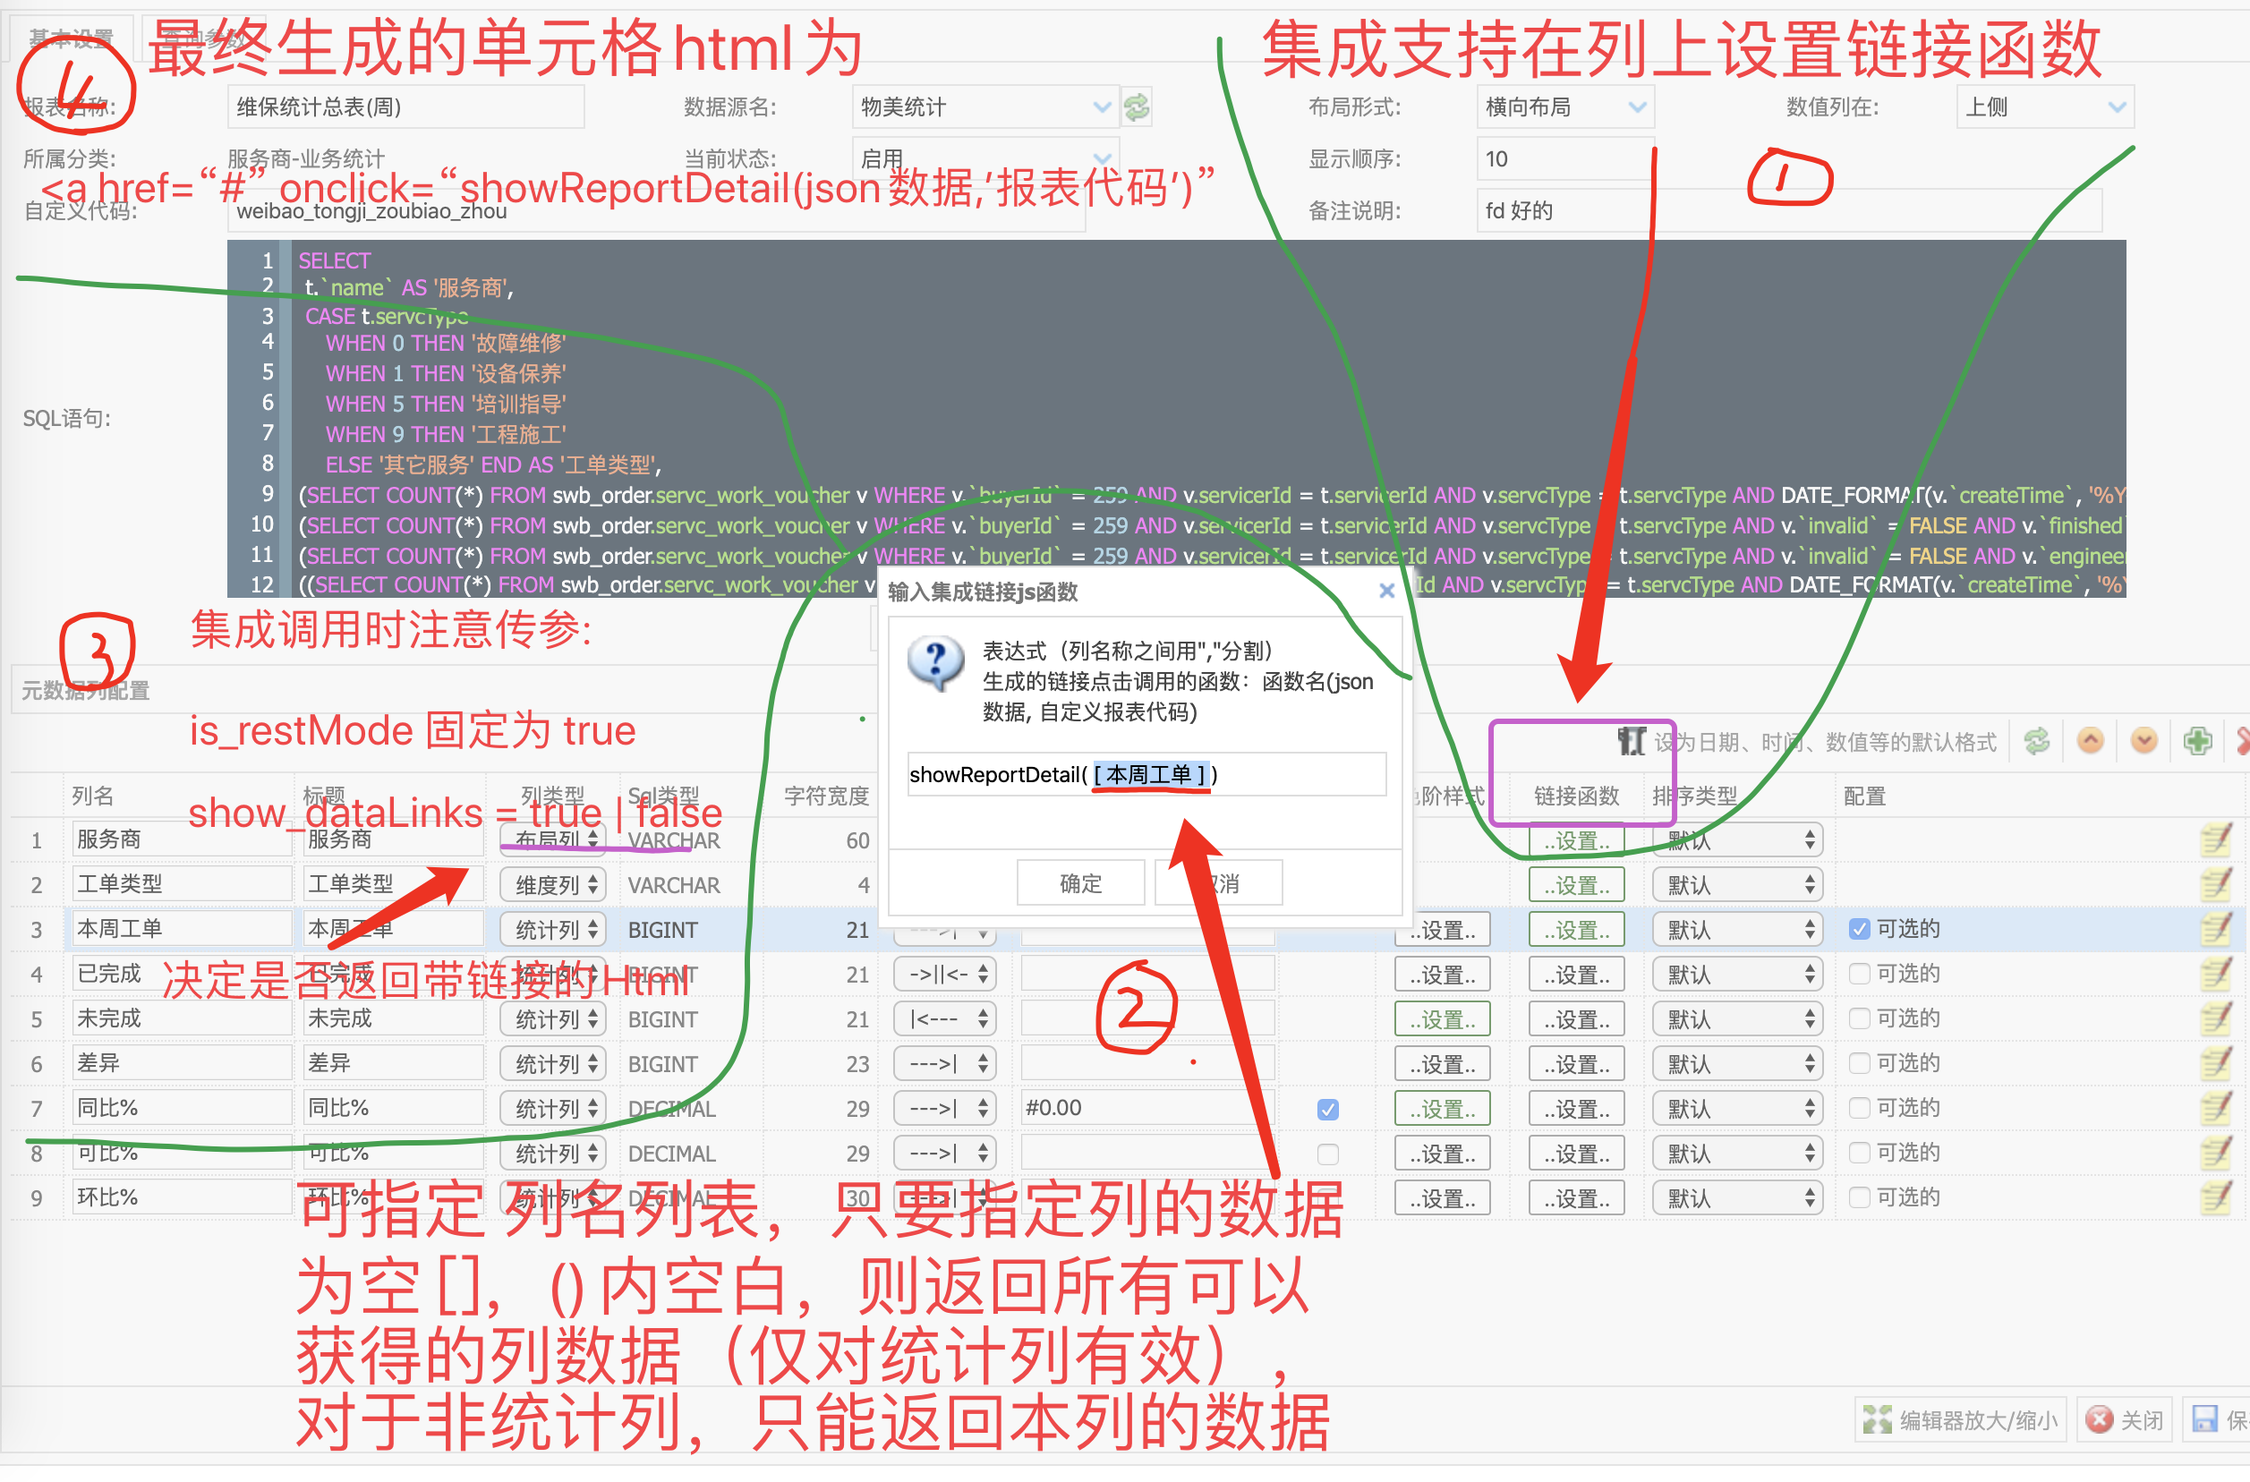
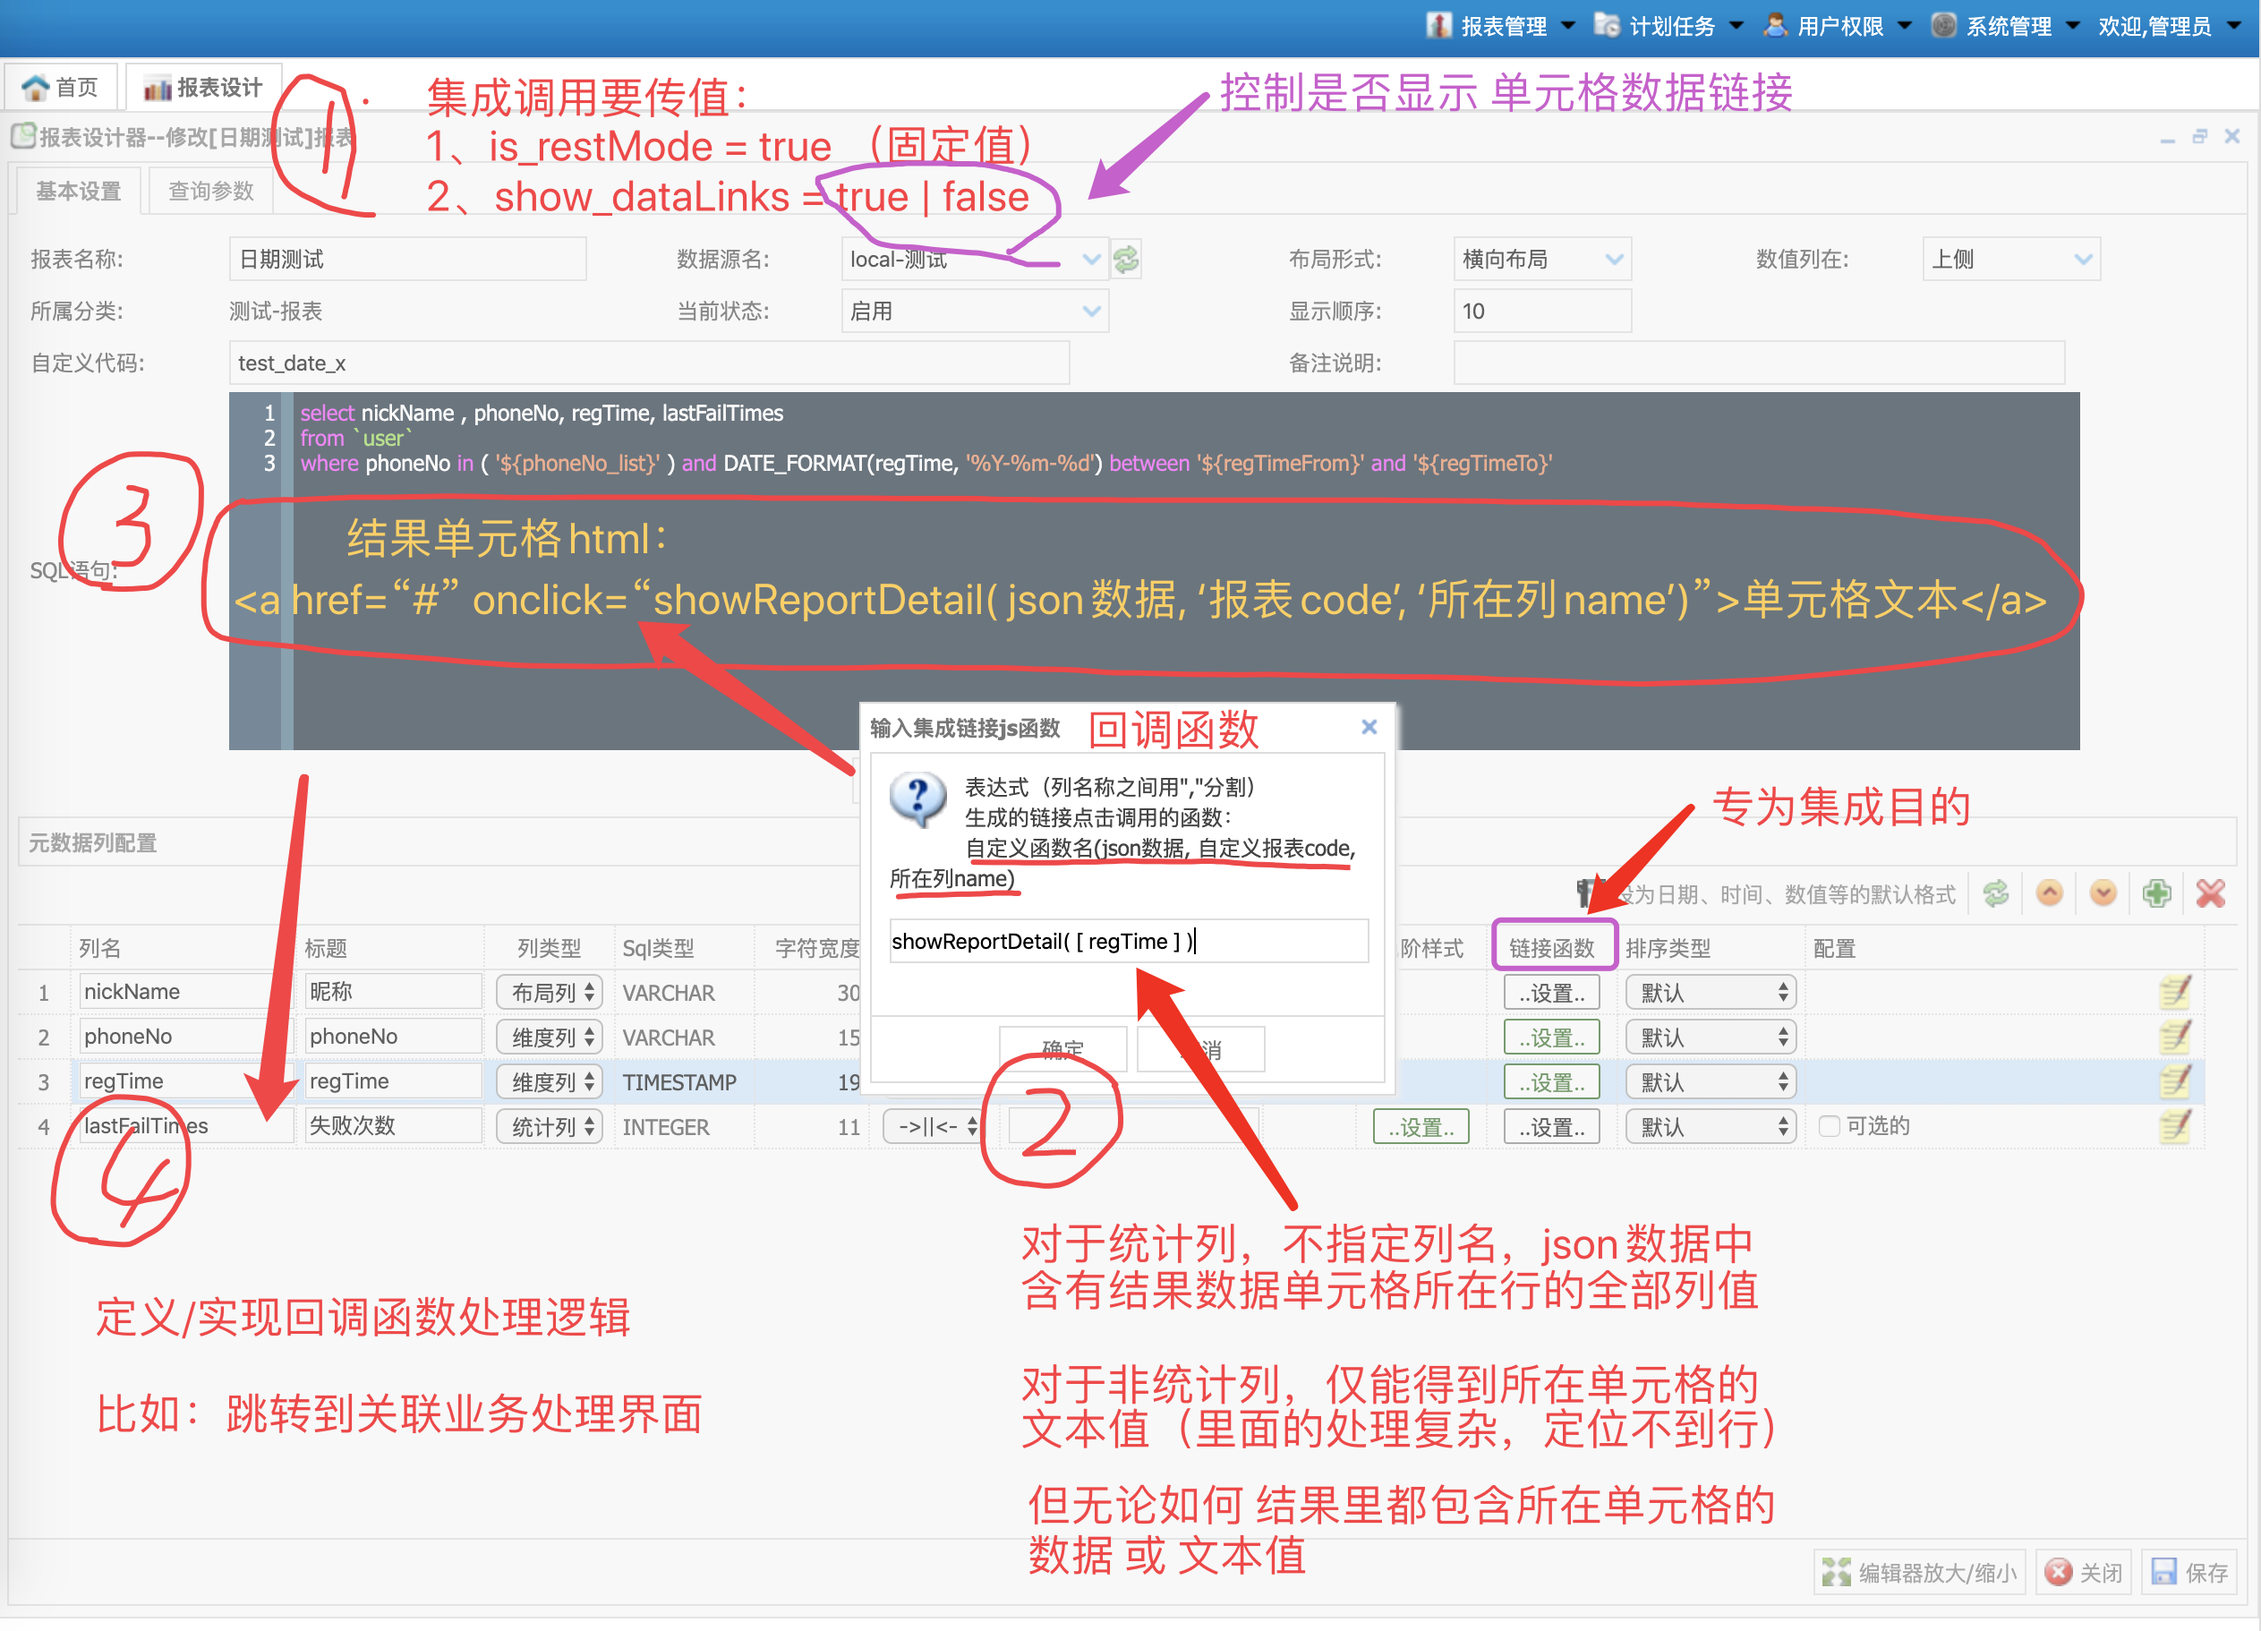
EasyReport 自定义链接回调函数增加列名参数

diff --git a/easyreport-web/src/main/resources/static/js/report/designer.js b/easyreport-web/src/main/resources/static/js/report/designer.js
@@ -1705,18 +1705,18 @@ var DesignerMVC = {
             	linkFuncExpr = 'showReportDetail( [ ' + row.name + ' ] )';
             }
             //
-            $.messager.prompt('输入集成链接js函数', '表达式（列名称之间用","分割）<br/>生成的链接点击调用的函数：函数名(json数据, 自定义报表代码)', function(val){
+            $.messager.prompt('输入集成链接js函数', '表达式（列名称之间用","分割）<br/>生成的链接点击调用的函数：<br/>自定义函数名(json数据, 自定义报表code, 所在列name)', function(val){
             	val = $.trim(val);
             	row.linkFuncExpr = val;
-            	//
-            	$(".messager-window .messager-input").val('');//fix
+            	//fix
+            	$(".messager-window .messager-input").val('');
             	//
             	var rows = $("#report-meta-column-grid").datagrid('getRows');
                 $("#report-meta-column-grid").datagrid('loadData', rows);
                 $("#report-meta-column-grid").datagrid('selectRow', index);
             });
-            //
-            $(".messager-window .messager-input").val(linkFuncExpr);//初始值fix
+            //初始值fix
+            $(".messager-window .messager-input").val(linkFuncExpr);
         },
         setMetaColumnFormat:function(){
         	var row = $("#report-meta-column-grid").datagrid('getSelected');

diff --git a/easyreport-web/src/main/resources/static/js/report/themes/content/table.js b/easyreport-web/src/main/resources/static/js/report/themes/content/table.js
@@ -391,7 +391,7 @@ var TableReportMVC = {
 };
 
 //仅供调试链接列使用
-function showReportDetail(dataMap, reportCode) {
-    console.log("-" + reportCode + "-");
+function showReportDetail(dataMap, reportCode, colName) {
+    console.log(">" + reportCode + " : " + colName);
     console.log(dataMap);
 }

diff --git a/easyreport-engine/src/main/java/com/easytoolsoft/easyreport/engine/LinkFunc.java b/easyreport-engine/src/main/java/com/easytoolsoft/easyreport/engine/LinkFunc.java
@@ -83,7 +83,7 @@ public class LinkFunc {
 				retFunc.colNames = colNames.toArray(new String[0]);
 			}
 		}
-		retFunc.tplStr = retFunc.funcName + "(%s, \"%s\")";
+		retFunc.tplStr = retFunc.funcName + "(%s, \"%s\", \"%s\")";
 		// System.out.println(retFunc.tplStr);
 		return retFunc;
 	}
@@ -103,38 +103,51 @@ public class LinkFunc {
 		return retStr;
 	}
 
-	public static String toLinkHtml(String valueText, LinkFunc linkFunc, String reportCode, String dataName, Object dataValue) {
+	public static String toLinkHtml(String valText, LinkFunc linkFunc, String reportCode, String colName) {
+		if (colName == null) {
+			colName = "";
+		}
+		//
 		Map<String, Object> dataMap = new HashMap<String, Object>();
-		dataMap.put(dataName, dataValue);
-		return toLinkHtml(valueText, linkFunc, reportCode, dataMap);
+		dataMap.put(colName, valText);
+		return toLinkHtml(valText, linkFunc, reportCode, colName, dataMap);
 	}
 
-	public static String toLinkHtml(String valueText, LinkFunc linkFunc, String reportCode, Map<String, Object> dataMap) {
+	public static String toLinkHtml(String valText, LinkFunc linkFunc, String reportCode, String colName, Map<String, Object> dataMap) {
 		if (linkFunc == null) {
-			return valueText;
+			return valText;
 		}
+		//
+		if (colName == null) {
+			colName = "";
+		}
+		//
 		String dataMapJson = null;
 		if (linkFunc.useAllCols) {
+			if (!dataMap.containsKey(colName)) {
+				// 确保含有当前列的值
+				dataMap.put(colName, valText);
+			}
 			dataMapJson = JSON.toJSONString(dataMap);
 		} else {
 			Map<String, Object> tempMap = new HashMap<>();
-			for (String colName : linkFunc.colNames) {
-				if (dataMap.containsKey(colName)) {
-					tempMap.put(colName, dataMap.get(colName));
+			for (String colNameTmp : linkFunc.colNames) {
+				if (dataMap.containsKey(colNameTmp)) {
+					tempMap.put(colNameTmp, dataMap.get(colNameTmp));
 				}
 			}
-			if (tempMap.isEmpty()) {
-				// 没找到key，使用全部数据
-				tempMap = dataMap;
+			if (!tempMap.containsKey(colName)) {
+				// 确保含有当前列的值
+				tempMap.put(colName, dataMap.getOrDefault(colName, valText));
 			}
 			dataMapJson = JSON.toJSONString(tempMap);
 		}
-		String funcStr = String.format(linkFunc.tplStr, dataMapJson, reportCode);
+		String funcStr = String.format(linkFunc.tplStr, dataMapJson, reportCode, colName);
 		// System.out.println(funcStr);
 
 		funcStr = escapeXmlAttrValue(funcStr);
 		// System.out.println(funcStr);
 
-		return String.format(LINK_HTML_TPL, funcStr, valueText);
+		return String.format(LINK_HTML_TPL, funcStr, valText);
 	}
 }

diff --git a/easyreport-engine/src/main/java/com/easytoolsoft/easyreport/engine/VerticalStatColumnReportBuilder.java b/easyreport-engine/src/main/java/com/easytoolsoft/easyreport/engine/VerticalStatColumnReportBuilder.java
@@ -36,8 +36,8 @@ public class VerticalStatColumnReportBuilder extends AbstractReportBuilder imple
 		final List<ColumnTreeNode> columnNodes = this.reportDataSet.getBodyRightColumnNodes();
 		final Map<String, ReportDataRow> dataRowMap = this.reportDataSet.getRowMap();
 		final Map<String, ColumnTreeNode> treeNodePathMap = this.getTreeNodePathMap(leftFixedColumnTree);
-		final String defaultColumName = this.reportDataSet.getEnabledStatColumns().get(0).getName();
-		final boolean isHideStatColumn = this.reportDataSet.isHideStatColumn();
+		final String defaultColName = this.reportDataSet.getEnabledStatColumns().get(0).getName();
+		final boolean isHideStatCol = this.reportDataSet.isHideStatColumn();
 
 		int rowIndex = 0;
 		String[] lastNodePaths = null;
@@ -48,7 +48,7 @@ public class VerticalStatColumnReportBuilder extends AbstractReportBuilder imple
 		//
 		this.tableRows.append("<tbody>");
 		for (final ColumnTreeNode rowNode : rowNodes) {
-			final String columnName = isHideStatColumn ? defaultColumName : rowNode.getName();
+			final String colName = isHideStatCol ? defaultColName : rowNode.getName();
 			this.tableRows.append("<tr").append(rowIndex % 2 == 0 ? " class=\"easyreport-row\"" : "").append(">");
 			lastNodePaths = this.drawLeftFixedColumn(treeNodePathMap, lastNodePaths, rowNode, this.reportParameter.isRowSpan());
 			for (final ColumnTreeNode columnNode : columnNodes) {
@@ -57,14 +57,14 @@ public class VerticalStatColumnReportBuilder extends AbstractReportBuilder imple
 				if (dataRow == null) {
 					dataRow = new ReportDataRow();
 				}
-				final ReportDataCell cell = dataRow.getCell(columnName);
-				String value = (cell == null) ? "" : cell.toString();
+				final ReportDataCell cell = dataRow.getCell(colName);
+				String valText = (cell == null) ? "" : cell.toString();
 				linkFunc = columnNode.getColumn().getLinkFunc();
-				if (showDataLinks && linkFunc != null && value.length() > 0) {
-					value = LinkFunc.toLinkHtml(value, linkFunc, reportCode, dataRow.getDataMap());
+				if (showDataLinks && linkFunc != null && valText.length() > 0) {
+					valText = LinkFunc.toLinkHtml(valText, linkFunc, reportCode, colName, dataRow.getDataMap());
 				}
 				String style = cell == null ? "" : cell.getStyle();
-				this.tableRows.append(String.format("<td style=\"%s\">", style)).append(value).append("</td>");
+				this.tableRows.append(String.format("<td style=\"%s\">", style)).append(valText).append("</td>");
 			}
 			this.tableRows.append("</tr>");
 			rowIndex++;

diff --git a/easyreport-engine/src/test/java/com/easytoolsoft/easyreport/engine/LinkFuncTest.java b/easyreport-engine/src/test/java/com/easytoolsoft/easyreport/engine/LinkFuncTest.java
@@ -34,7 +34,7 @@ public class LinkFuncTest {
 	public void testToLinkHtml1() {
 		String linkFuncExpr = " showReportDetail ( ) ";
 		LinkFunc linkFunc = LinkFunc.fromLinkFuncExpr(linkFuncExpr);
-
+		String colName = "name";
 		String valueText = "商维宝";
 		String reportCode = "xyz-report";
 		Map<String, Object> dataMap = new HashMap<>();
@@ -45,7 +45,7 @@ public class LinkFuncTest {
 		dataMap.put("birthDate", "1978-06-22");
 		dataMap.put("marriage", true);
 
-		String linkHtml = LinkFunc.toLinkHtml(valueText, linkFunc, reportCode, dataMap);
+		String linkHtml = LinkFunc.toLinkHtml(valueText, linkFunc, reportCode, colName, dataMap);
 
 		System.out.println(linkHtml);
 	}
@@ -55,6 +55,7 @@ public class LinkFuncTest {
 		String linkFuncExpr = " showReportDetail ( [ gender, birthDate] ) ";
 		LinkFunc linkFunc = LinkFunc.fromLinkFuncExpr(linkFuncExpr);
 
+		String colName = "name";
 		String valueText = "商维宝";
 		String reportCode = "xyz-report";
 		Map<String, Object> dataMap = new HashMap<>();
@@ -65,7 +66,7 @@ public class LinkFuncTest {
 		dataMap.put("birthDate", "1978-06-22");
 		dataMap.put("marriage", true);
 
-		String linkHtml = LinkFunc.toLinkHtml(valueText, linkFunc, reportCode, dataMap);
+		String linkHtml = LinkFunc.toLinkHtml(valueText, linkFunc, reportCode, colName, dataMap);
 
 		System.out.println(linkHtml);
 	}

diff --git a/easyreport-engine/src/main/java/com/easytoolsoft/easyreport/engine/AbstractReportBuilder.java b/easyreport-engine/src/main/java/com/easytoolsoft/easyreport/engine/AbstractReportBuilder.java
@@ -92,7 +92,7 @@ public abstract class AbstractReportBuilder implements ReportBuilder {
 		for (int i = 0; i < level; i++) {
 			String value = paths[i];
 			if (showDataLinks && linkFunc != null && value.length() > 0) {
-				value = LinkFunc.toLinkHtml(value, linkFunc, reportCode, dataColumn.getName(), value);
+				value = LinkFunc.toLinkHtml(value, linkFunc, reportCode, dataColumn.getName());
 			}
 			this.tableRows.append(String.format("<td class=\"easyreport-fixed-column\" style=\"%s\">%s</td>", rowNode.getStyle(), value));
 		}
@@ -153,7 +153,7 @@ public abstract class AbstractReportBuilder implements ReportBuilder {
 				linkFunc = dataColumn.getLinkFunc();
 				String value = treeNode.getValue();
 				if (showDataLinks && linkFunc != null && value.length() > 0) {
-					value = LinkFunc.toLinkHtml(value, linkFunc, reportCode, dataColumn.getName(), value);
+					value = LinkFunc.toLinkHtml(value, linkFunc, reportCode, dataColumn.getName());
 				}
 				final String rowspan = treeNode.getSpans() > 1 ? String.format(" rowspan=\"%s\"", treeNode.getSpans()) : "";
 				this.tableRows.append(String.format("<td class=\"easyreport-fixed-column\"%s style=\"%s\">%s</td>", rowspan, treeNode.getStyle(), value));

diff --git a/easyreport-engine/src/main/java/com/easytoolsoft/easyreport/engine/HorizontalStatColumnReportBuilder.java b/easyreport-engine/src/main/java/com/easytoolsoft/easyreport/engine/HorizontalStatColumnReportBuilder.java
@@ -57,14 +57,15 @@ public class HorizontalStatColumnReportBuilder extends AbstractReportBuilder imp
 					dataRow = new ReportDataRow();
 				}
 				for (final ReportDataColumn statColumn : statColumns) {
-					final ReportDataCell cell = dataRow.getCell(statColumn.getName());
-					String value = (cell == null) ? "" : cell.toString();
+					String colName = statColumn.getName();
+					final ReportDataCell cell = dataRow.getCell(colName);
+					String valText = (cell == null) ? "" : cell.toString();
 					linkFunc = statColumn.getLinkFunc();
-					if (showDataLinks && linkFunc != null && value.length() > 0) {
-						value = LinkFunc.toLinkHtml(value, linkFunc, reportCode, dataRow.getDataMap());
+					if (showDataLinks && linkFunc != null && valText.length() > 0) {
+						valText = LinkFunc.toLinkHtml(valText, linkFunc, reportCode, colName, dataRow.getDataMap());
 					}
 					String style = cell == null ? "" : statColumn.getStyle(cell.getValue());
-					this.tableRows.append(String.format("<td style=\"%s\">", style)).append(value).append("</td>");
+					this.tableRows.append(String.format("<td style=\"%s\">", style)).append(valText).append("</td>");
 				}
 			}
 			this.tableRows.append("</tr>");

diff --git a/easyreport-web/src/main/java/com/easytoolsoft/easyreport/web/util/ReportUtils.java b/easyreport-web/src/main/java/com/easytoolsoft/easyreport/web/util/ReportUtils.java
@@ -53,6 +53,9 @@ public class ReportUtils {
 		return StrUtils.extractVarNames(sqlText);
 	}
 
+	// 是否本地funcLink测试模式
+	private static final boolean LOCAL_FUNC_LINK_DEV_MODE = false;
+
 	/**
 	 * 验证sql语句中的变量是否都提供了值
 	 * 
@@ -282,6 +285,16 @@ public class ReportUtils {
 				formParams.put(es.getKey(), es.getValue());
 			}
 		}
+		//
+		if (LOCAL_FUNC_LINK_DEV_MODE) {
+			// 不能影响正常集成调用（所以要加判断）
+			if (!formParams.containsKey("is_restMode")) {
+				formParams.put("is_restMode", true);
+				//
+				formParams.put("show_dataLinks", true);
+			}
+		}
+		//
 		return tableReportService.getReportTable(report, formParams);
 	}
 

diff --git a/easyreport-engine/src/main/java/com/easytoolsoft/easyreport/engine/data/ReportMetaDataColumn.java b/easyreport-engine/src/main/java/com/easytoolsoft/easyreport/engine/data/ReportMetaDataColumn.java
@@ -51,7 +51,7 @@ public class ReportMetaDataColumn {
 	// showReportDetail([colName])
 	// showReportDetail([colName1, colName2,...])
 	// => showReportDetail({"colName1" : value1, "colName2" : value2, ...}, "${reportCode}")
-	// <a href='#' onclick='showReportDetail({"colName1" : value1, "colName2" : value2, ...}, "${reportCode}")'></a>
+	// <a href='#' onclick='showReportDetail({"colName1" : value1, "colName2" : value2, ...}, "${reportCode}", "${colName}")'></a>
 	private String linkFuncExpr;
 	private boolean isOptional;
 	private boolean isDisplayInMail;
